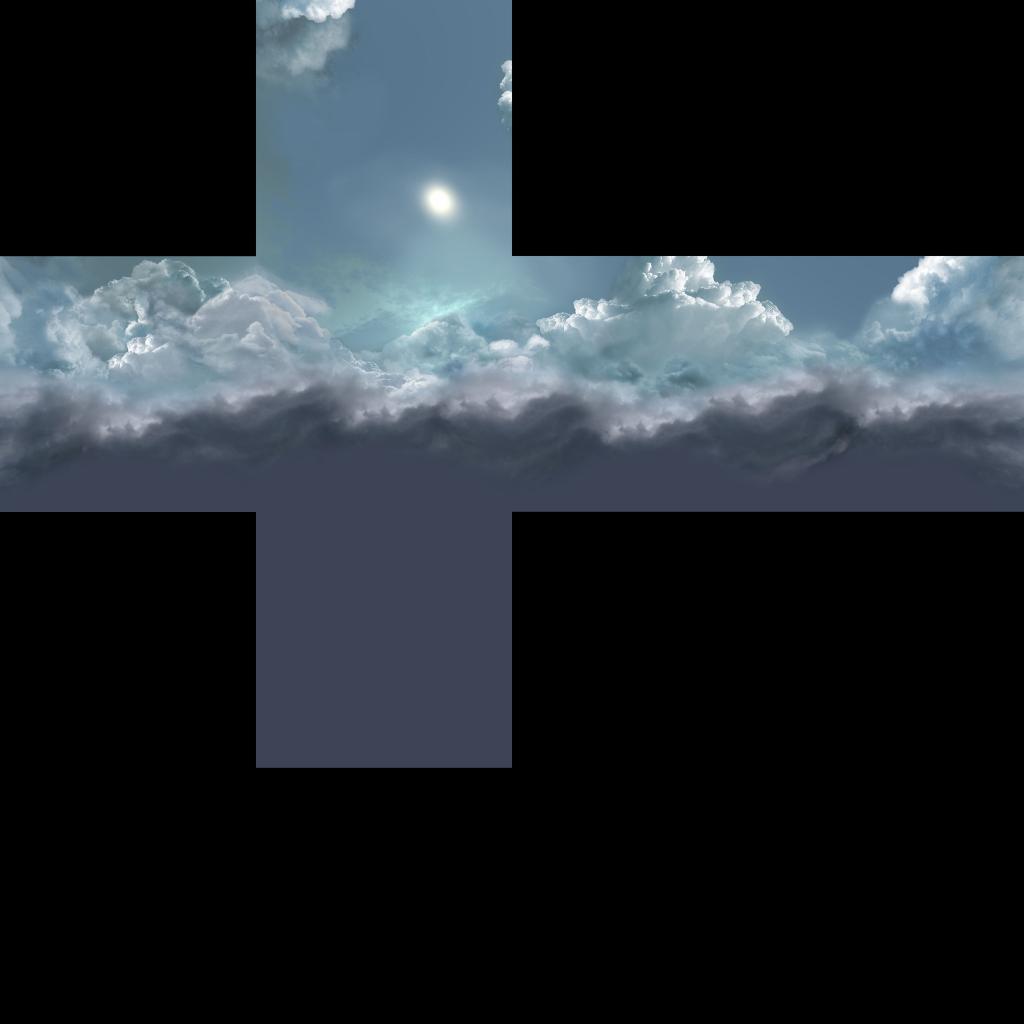
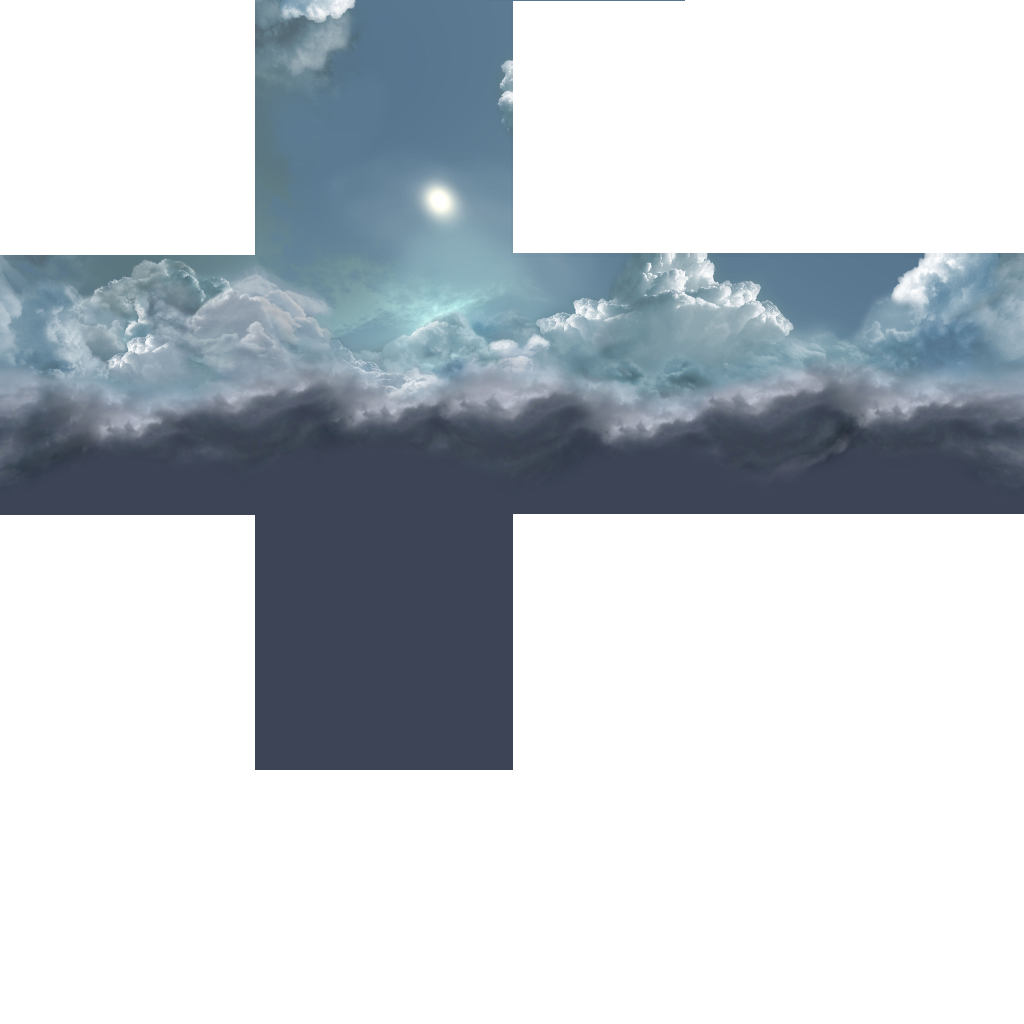
Completed the skybox
Fucked around with the texture and stuff to get it right

diff --git a/GraphicsProgramming/GraphicsProgramming/Scene.cpp b/GraphicsProgramming/GraphicsProgramming/Scene.cpp
@@ -9,7 +9,7 @@ Scene::Scene(Input *in)
 		
 	//OpenGL settings
 	glShadeModel(GL_SMOOTH);							// Enable Smooth Shading
-	glClearColor(0.0f, 0.0f, 0.0f, 1.0f);				// Black Background
+	glClearColor(1.0f, 1.0f, 1.0f, 1.0f);				// Black Background
 	glClearDepth(1.0f);									// Depth Buffer Setup
 	glClearStencil(0);									// Clear stencil buffer
 	glEnable(GL_DEPTH_TEST);							// Enables Depth Testing
@@ -33,6 +33,7 @@ Scene::Scene(Input *in)
 	glEnable(GL_DEPTH_TEST); 
 	glDepthFunc(GL_LEQUAL);
 	glEnable(GL_TEXTURE_2D);
+	glBlendFunc(GL_SRC_ALPHA, GL_ONE_MINUS_SRC_ALPHA);
 
 
 	myTexture = SOIL_load_OGL_texture
@@ -77,11 +78,37 @@ Scene::Scene(Input *in)
 
 	grass = SOIL_load_OGL_texture
 	(
-		"gfx/grass.png",
+		"gfx/grass_top.png",
 		SOIL_LOAD_AUTO,
 		SOIL_CREATE_NEW_ID,
 		SOIL_FLAG_MIPMAPS | SOIL_FLAG_NTSC_SAFE_RGB | SOIL_FLAG_COMPRESS_TO_DXT
 	);
+
+	tpchecks = SOIL_load_OGL_texture
+	(
+		"gfx/transparentChecked.png",
+		SOIL_LOAD_AUTO,
+		SOIL_CREATE_NEW_ID,
+		SOIL_FLAG_MIPMAPS | SOIL_FLAG_NTSC_SAFE_RGB | SOIL_FLAG_COMPRESS_TO_DXT
+	);
+
+	tpcrate = SOIL_load_OGL_texture
+	(
+		"gfx/transparentCrate.png",
+		SOIL_LOAD_AUTO,
+		SOIL_CREATE_NEW_ID,
+		SOIL_FLAG_MIPMAPS | SOIL_FLAG_NTSC_SAFE_RGB | SOIL_FLAG_COMPRESS_TO_DXT
+	);
+
+	sky = SOIL_load_OGL_texture
+	(
+		"gfx/skybox.png",
+		SOIL_LOAD_AUTO,
+		SOIL_CREATE_NEW_ID,
+		SOIL_FLAG_MIPMAPS | SOIL_FLAG_NTSC_SAFE_RGB | SOIL_FLAG_COMPRESS_TO_DXT
+	);
+
+
 }
 
 
@@ -182,30 +209,14 @@ void Scene::render() {
 	// Reset transformations
 	glLoadIdentity();
 	// Set the camera
-	//gluLookAt(0.0f, 0.0f, 6.0f, 0.0f, 0.0f, 0.0f, 0.0f, 1.0f, 0.0f);
 	gluLookAt(camera.getPosition().x, camera.getPosition().y, camera.getPosition().z, camera.getLookAt().x, camera.getLookAt().y, camera.getLookAt().z, camera.getUp().x, camera.getUp().y, camera.getUp().z);
 	
+	//Create skybox
+	renderSkyBox();
+
 	// Render geometry/scene here -------------------------------------
 
-
-	///WEEK 5 RUBIKS CUBE
-
-	glDisable(GL_DEPTH_TEST);
-	rotation += 0.4f;
-	glBindTexture(GL_TEXTURE_2D, rubiks);
-	glRotatef(rotation, 0, 1, 0);
-
-	renderCube();
-
-	glRotatef(-rotation, 0, 1, 0);
-	
-	glEnable(GL_DEPTH_TEST);
-
-	//Render plane
-	glBindTexture(GL_TEXTURE_2D, grass);
-	glTexParameteri(GL_TEXTURE_2D, GL_TEXTURE_WRAP_S, GL_REPEAT);
-	glTexParameteri(GL_TEXTURE_2D, GL_TEXTURE_WRAP_T, GL_REPEAT);
-	glTranslatef(0.0f, -10.0f, 0.0f);
+	//Render plane -------------------------------------
 	for (double i = -10; i < 10; i += 1)
 	{
 		for (double j = -10; j < 10; j += 1)
@@ -213,7 +224,29 @@ void Scene::render() {
 			renderPlane(i, 0.0f, j);
 		}
 	}
-	glTranslatef(0.0f, 10.0f, 0.0f);
+	//Render plane -------------------------------------
+	
+	///WEEK 5 RUBIKS CUBE
+	rotation += 0.4f;
+	glBindTexture(GL_TEXTURE_2D, rubiks);
+	glRotatef(rotation, 0, 1, 0);
+	renderCube();
+	glRotatef(-rotation, 0, 1, 0);
+	///WEEK 5 RUBIKS CUBE
+
+
+	///WEEK 7
+
+	//Crate
+	
+	glEnable(GL_BLEND);
+	glBindTexture(GL_TEXTURE_2D, tpchecks);
+	glColor4f(1.0f, 1.0f, 1.0f, 1);
+	renderQuad(Vector3(0.0f, 1.0f, 1.0f), 5.0f, 5.0f, 4.0f);
+	glDisable(GL_BLEND);
+
+	///WEEK 7
+	
 
 	//Triangles
 	/*glBegin(GL_TRIANGLES);
@@ -334,26 +367,34 @@ void Scene::displayText(float x, float y, float r, float g, float b, char* strin
 
 void Scene::renderPlane(double x, double y, double z)
 {
+	glColor3f(0.0f, 1.0f, 0.0f);
+	glBindTexture(GL_TEXTURE_2D, grass);
+	glTexParameteri(GL_TEXTURE_2D, GL_TEXTURE_WRAP_S, GL_REPEAT);
+	glTexParameteri(GL_TEXTURE_2D, GL_TEXTURE_WRAP_T, GL_REPEAT);
+	glTranslatef(0.0f, -10.0f, 0.0f);
+
 	glBegin(GL_QUADS);
 
-	//glColor3f(0.0f, 1.0f, 0.0f);
-	//set normal
-	glNormal3f(0.0f, 1.0f, 0.0f);
-	//draw plane
-	glTexCoord2f(x, y);
-	glVertex3f(x, y, z - 1);
+		//glColor3f(0.0f, 1.0f, 0.0f);
+		//set normal
+		glNormal3f(0.0f, 1.0f, 0.0f);
+		//draw plane
+		glTexCoord2f(x, y);
+		glVertex3f(x, y, z - 1);
 
-	glTexCoord2f(x + 1, y);
-	glVertex3f(x, y, z);
+		glTexCoord2f(x + 1, y);
+		glVertex3f(x, y, z);
 
-	glTexCoord2f(x + 1, y + 1);
-	glVertex3f(x + 1, y, z);
+		glTexCoord2f(x + 1, y + 1);
+		glVertex3f(x + 1, y, z);
 
-	glTexCoord2f(x, y + 1);
-	glVertex3f(x + 1, y, z - 1);
-
+		glTexCoord2f(x, y + 1);
+		glVertex3f(x + 1, y, z - 1);
 
 	glEnd();
+
+	glTranslatef(0.0f, 10.0f, 0.0f);
+	glColor3f(1.0f, 1.0f, 1.0f);
 }
 
 void Scene::renderCube()
@@ -495,4 +536,177 @@ void Scene::renderCube()
 	glVertex3f(1.0f, 1.0f, -1.0f);
 
 	glEnd(); //end drawing
+}
+
+void Scene::renderSkyBox()
+{
+	glPushMatrix();
+		glBindTexture(GL_TEXTURE_2D, sky);
+		glTexParameteri(GL_TEXTURE_2D, GL_TEXTURE_WRAP_S, GL_REPEAT);
+		glTexParameteri(GL_TEXTURE_2D, GL_TEXTURE_WRAP_T, GL_REPEAT);
+		glTranslatef(camera.getPosition().x, camera.getPosition().y, camera.getPosition().z);
+		glColor3f(1.0f, 1.0f, 1.0f);
+		glDisable(GL_DEPTH_TEST);
+		renderBox();
+		glEnable(GL_DEPTH_TEST);
+	glPopMatrix();
+}
+
+void Scene::renderBox()
+{
+
+	//Front face
+	glBegin(GL_QUADS); //Begin drawing state
+
+		glNormal3f(0.0f, 0.0f, 1.0f);
+		glTexCoord2f(0.0f, 0.25f);
+		glVertex3f(-1.0f, 1.0f, 1.0f);
+
+		glNormal3f(0.0f, 0.0f, 1.0f);
+		glTexCoord2f(0.0f, 0.5f);
+		glVertex3f(-1.0f, -1.0f, 1.0f);
+
+		glNormal3f(0.0f, 0.0f, 1.0f);
+		glTexCoord2f(0.25f, 0.5f);		
+		glVertex3f(1.0f, -1.0f, 1.0f);
+
+		glNormal3f(0.0f, 0.0f, 1.0f);
+		glTexCoord2f(0.25f, 0.25f);
+		glVertex3f(1.0f, 1.0f, 1.0f);
+
+	glEnd(); //end drawing
+
+	//Right face
+	glBegin(GL_QUADS); //Begin drawing state
+		
+		glNormal3f(0.0f, 0.0f, 1.0f);
+		glTexCoord2f(0.25f, 0.25f);
+		glVertex3f(1.0f, 1.0f, 1.0f);
+
+		glNormal3f(0.0f, 0.0f, 1.0f);
+		glTexCoord2f(0.25f, 0.5f);
+		glVertex3f(1.0f, -1.0f, 1.0f);
+
+		glNormal3f(0.0f, 0.0f, 1.0f);
+		glTexCoord2f(0.5f, 0.5f);
+		glVertex3f(1.0f, -1.0f, -1.0f);
+
+		glNormal3f(0.0f, 0.0f, 1.0f);
+		glTexCoord2f(0.5f, 0.25f);
+		glVertex3f(1.0f, 1.0f, -1.0f);
+
+	glEnd(); //end drawing
+
+	//Left face
+	glBegin(GL_QUADS); //Begin drawing state
+
+		glNormal3f(0.0f, 0.0f, 1.0f);
+		glTexCoord2f(1.0f, 0.25f);
+		glVertex3f(-1.0f, 1.0f, 1.0f);
+
+		glNormal3f(0.0f, 0.0f, 1.0f);
+		glTexCoord2f(1.0f, 0.5f);
+		glVertex3f(-1.0f, -1.0f, 1.0f);
+
+		glNormal3f(0.0f, 0.0f, 1.0f);
+		glTexCoord2f(0.75f, 0.5f);
+		glVertex3f(-1.0f, -1.0f, -1.0f);
+
+		glNormal3f(0.0f, 0.0f, 1.0f);
+		glTexCoord2f(0.75f, 0.25f);
+		glVertex3f(-1.0f, 1.0f, -1.0f);
+
+	glEnd(); //end drawing
+
+	//Top face
+	glBegin(GL_QUADS); //Begin drawing state
+
+		glNormal3f(0.0f, 0.0f, 1.0f);
+		glTexCoord2f(0.5f, 0.001f);
+		glVertex3f(-1.0f, 1.0f, -1.0f);
+
+		glNormal3f(0.0f, 0.0f, 1.0f);
+		glTexCoord2f(0.25f, 0.001f);
+		glVertex3f(-1.0f, 1.0f, 1.0f);
+
+		glNormal3f(0.0f, 0.0f, 1.0f);
+		glTexCoord2f(0.25f, 0.25f);
+		glVertex3f(1.0f, 1.0f, 1.0f);
+
+		glNormal3f(0.0f, 0.0f, 1.0f);
+		glTexCoord2f(0.5f, 0.25f);
+		glVertex3f(1.0f, 1.0f, -1.0f);
+
+	glEnd(); //end drawing
+
+	//Bottom face
+	glBegin(GL_QUADS); //Begin drawing state
+
+		glNormal3f(0.0f, 0.0f, 1.0f);
+		glTexCoord2f(0.5f, 0.75f);
+		glVertex3f(-1.0f, -1.0f, -1.0f);
+
+		glNormal3f(0.0f, 0.0f, 1.0f);
+		glTexCoord2f(0.25f, 0.75f);
+		glVertex3f(-1.0f, -1.0f, 1.0f);
+
+		glNormal3f(0.0f, 0.0f, 1.0f);
+		glTexCoord2f(0.25f, 0.5f);
+		glVertex3f(1.0f, -1.0f, 1.0f);
+
+		glNormal3f(0.0f, 0.0f, 1.0f);
+		glTexCoord2f(0.5f, 0.5f);
+		glVertex3f(1.0f, -1.0f, -1.0f);
+
+	glEnd(); //end drawing
+
+	//Back face
+	glBegin(GL_QUADS); //Begin drawing state
+
+		glNormal3f(0.0f, 0.0f, 1.0f);
+		glTexCoord2f(0.75f, 0.25f);
+		glVertex3f(-1.0f, 1.0f, -1.0f);
+
+		glNormal3f(0.0f, 0.0f, 1.0f);
+		glTexCoord2f(0.75f, 0.5f);
+		glVertex3f(-1.0f, -1.0f, -1.0f);
+
+		glNormal3f(0.0f, 0.0f, 1.0f);
+		glTexCoord2f(0.5f, 0.5f);
+		glVertex3f(1.0f, -1.0f, -1.0f);
+
+		glNormal3f(0.0f, 0.0f, 1.0f);
+		glTexCoord2f(0.5f, 0.25f);
+		glVertex3f(1.0f, 1.0f, -1.0f);
+
+	glEnd(); //end drawing
+}
+
+void Scene::renderQuad(Vector3 startVertex, double xLength, double yLength, double zLength)
+{
+	glBegin(GL_QUADS); //Begin drawing state (draw each vertex in anti-clockwise. Start at top left.)
+		
+		//Top Left Vertex
+		glNormal3f(0.0f, 0.0f, 1.0f);
+		glTexCoord2f(0.0f, 0.0f);
+		glVertex3f(startVertex.x, startVertex.y, startVertex.z + zLength);
+
+		//Bottom Left
+		glNormal3f(0.0f, 0.0f, 1.0f);
+		glTexCoord2f(0.0f, 1.0f);
+		glVertex3f(startVertex.x, startVertex.y + yLength, startVertex.z + zLength);
+
+		//Bottom Right
+		glNormal3f(0.0f, 0.0f, 1.0f);
+		glTexCoord2f(1.0f, 1.0f);
+		glVertex3f(startVertex.x + xLength, startVertex.y + yLength, startVertex.z + zLength);
+
+		//Top right
+		glNormal3f(0.0f, 0.0f, 1.0f);
+		glTexCoord2f(1.0f, 0.0f);
+		glVertex3f(startVertex.x + xLength, startVertex.y, startVertex.z + zLength);
+
+	glEnd(); //end drawing
+
+	
 }

diff --git a/GraphicsProgramming/GraphicsProgramming/Scene.h b/GraphicsProgramming/GraphicsProgramming/Scene.h
@@ -35,6 +35,9 @@ public:
 
 	void renderPlane(double x, double y, double z);
 	void renderCube();
+	void renderSkyBox();
+	void renderBox();
+	void renderQuad(Vector3 startVertex, double xLength, double yLength, double zLength);
 
 protected:
 	// Renders text (x, y positions, RGB colour of text, string of text to be rendered)
@@ -72,6 +75,9 @@ protected:
 	GLuint rubiks;
 	GLuint checks;
 	GLuint grass;
+	GLuint tpchecks;
+	GLuint tpcrate;
+	GLuint sky;
 
 	GLint polygonMode;
 };
